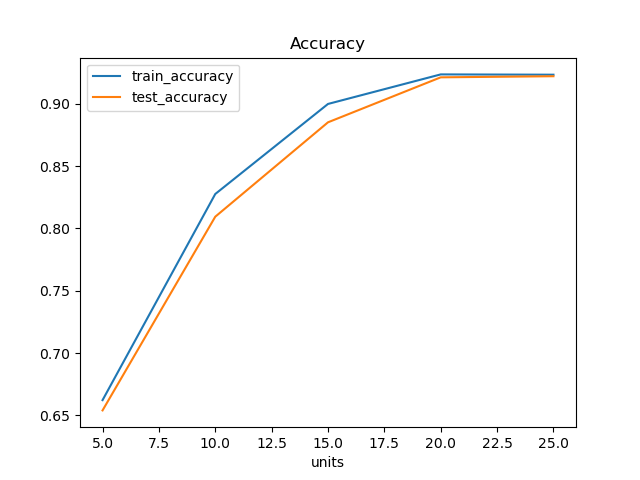
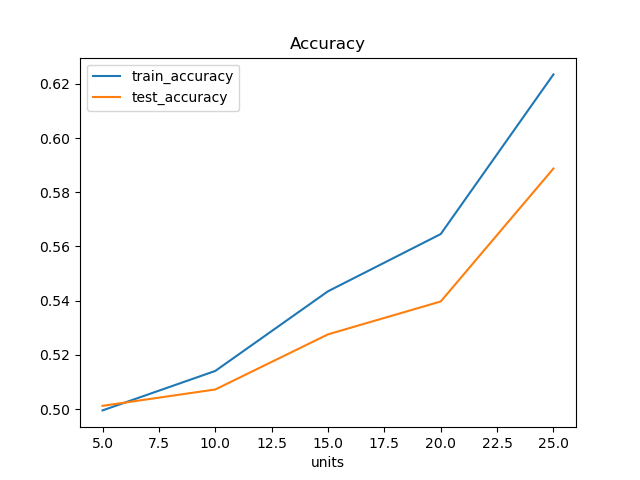
changed converfence and added part f

diff --git a/Assignments/Assignment 3/Q2/Q2.py b/Assignments/Assignment 3/Q2/Q2.py
@@ -3,6 +3,8 @@ from time import time
 import argparse
 import numpy as np
 from sklearn.preprocessing import OneHotEncoder
+from sklearn.neural_network import MLPClassifier
+from sklearn.metrics import confusion_matrix
 import pandas as pd
 from matplotlib import pyplot as plt
 
@@ -54,16 +56,20 @@ def relu_derivative(z):
 
 class NeuralNetwork:
     def __init__(self, X, Y, layers, activation, activation_derivative,
-                 learning_rate=5, epochs=1000, batch_size=100, adaptive=False, verbose=False):
-        self.X = X
-        self.Y = Y
+                 learning_rate=0.1, epsilon=1e-6, batch_size=100, max_epochs=1000, adaptive=False, verbose=False):
+        permutation = np.random.permutation(X.shape[0])
+        self.X = X[permutation]
+        self.Y = Y[permutation]
         self.layers = [X.shape[1]] + layers + [Y.shape[1]]
         self.weights = []
         self.biases = []
         self.activation = activation
         self.activation_derivative = activation_derivative
         self.learning_rate = learning_rate
-        self.epochs = epochs
+        if adaptive:
+            self.learning_rate *= 10
+        self.epsilon = epsilon
+        self.max_epochs = max_epochs
         self.batch_size = batch_size
         self.adaptive = adaptive
         self.verbose = verbose
@@ -79,15 +85,18 @@ class NeuralNetwork:
         self.a = [X]
         for i in range(len(self.layers) - 1):
             z = np.matmul(self.a[i], self.weights[i].T) + self.biases[i].T
-            self.a.append(self.activation(z))
+            if i == len(self.layers) - 2:
+                self.a.append(sigmoid(z))
+            else:
+                self.a.append(self.activation(z))
         return self.a[-1]
 
     def back_propagation(self, Y):
         self.delta = [(Y - self.a[-1]) *
-                      self.activation_derivative(self.a[-1])]
+                      sigmoid_derivative(self.a[-1])]
         for i in range(len(self.layers) - 2, 0, -1):
             self.delta.append(
-                np.dot(self.delta[-1], self.weights[i]) * self.activation_derivative(self.a[i]))
+                np.matmul(self.delta[-1], self.weights[i]) * self.activation_derivative(self.a[i]))
         self.delta.reverse()
 
     def update_weights_biases(self, i):
@@ -96,27 +105,34 @@ class NeuralNetwork:
             rate = self.learning_rate / i ** 0.5
         for i in range(len(self.layers) - 1):
             self.weights[i] += rate * \
-                np.dot(self.delta[i].T, self.a[i]) / self.batch_size
+                np.matmul(self.delta[i].T, self.a[i]) / self.batch_size
             self.biases[i] += rate * \
                 np.sum(self.delta[i], axis=0,
                        keepdims=True).T / self.batch_size
 
     def train(self):
-        for i in range(self.epochs):
+        prev_cost, curr_cost, i = 1e9, 0, 0
+        while abs(curr_cost - prev_cost) > self.epsilon and i < self.max_epochs:
+            prev_cost = curr_cost
             for j in range(0, len(self.X), self.batch_size):
-                self.forward_propagation(self.X[j:j + self.batch_size])
-                self.back_propagation(self.Y[j:j + self.batch_size])
+                X = self.X[j:j + self.batch_size]
+                Y = self.Y[j:j + self.batch_size]
+                self.forward_propagation(X)
+                self.back_propagation(Y)
                 self.update_weights_biases(i + 1)
+                curr_cost += self.cost(X, Y)
+            curr_cost /= len(self.X) / self.batch_size
+            i += 1
             if self.verbose:
-                print(f'Epoch: {i}, Cost: {self.cost()}')
+                print(f'Epoch: {i}, Cost: {curr_cost}')
                 if i % 100 == 0:
                     print(f'Accuracy: {self.accuracy(self.X, self.Y)}')
 
     def predict(self, X):
         return np.argmax(self.forward_propagation(X), axis=1)
 
-    def cost(self):
-        return np.sum(np.square(self.Y - self.forward_propagation(self.X))) / (2 * self.batch_size)
+    def cost(self, X, Y):
+        return np.sum(np.square(Y - self.forward_propagation(X))) / (2 * self.batch_size)
 
     def accuracy(self, X, Y):
         return np.sum(self.predict(X) == np.argmax(Y, axis=1)) / len(Y)
@@ -136,13 +152,12 @@ def util_nn(part: str, params, activation, activation_derivative, adaptive: bool
         f.write('units,train_accuracy,test_accuracy,time\n')
         for num_units in params:
             nn = NeuralNetwork(X_train, Y_train, num_units,
-                               activation, activation_derivative, adaptive=adaptive)
+                               activation, activation_derivative, adaptive=adaptive, verbose=True)
             t = time()
             nn.train()
             t = time() - t
             f.write(
                 f'{num_units[0]},{nn.accuracy(X_train, Y_train)},{nn.accuracy(X_test, Y_test)},{t}\n')
-
             with open(f'{args.output}/{part}_{num_units[0]}_confusion', 'w+') as g:
                 g.write(str(nn.confusion_matrix(X_test, Y_test)))
 
@@ -154,6 +169,34 @@ def util_nn(part: str, params, activation, activation_derivative, adaptive: bool
         plt.clf()
         df.plot(x='units', y='time', title='Time')
         plt.savefig(f'{args.output}/{part}_time.png')
+
+
+def train_MLP(layers, architecture):
+    nn = MLPClassifier(layers, architecture, solver='sgd',
+                       learning_rate_init=0.1, max_iter=1000)
+    nn.fit(X_train, Y_train)
+    return nn
+
+
+def util_MLP():
+    with open(f'{args.output}/MLP', 'w+') as f:
+        f.write('architecture,train_accuracy,test_accuracy,time\n')
+        t = time()
+        nn = train_MLP([100, 100], 'relu')
+        t = time() - t
+        f.write(
+            f'relu,{nn.score(X_train, Y_train)},{nn.score(X_test, Y_test)},{t}\n')
+        f.write(
+            f'{confusion_matrix(np.argmax(Y_test, axis=1), np.argmax(nn.predict(X_test), axis=1))}\n')
+        t = time()
+        nn = train_MLP([100, 100], 'logistic')
+        t = time() - t
+        f.write(
+            f'sigmoid,{nn.score(X_train, Y_train)},{nn.score(X_test, Y_test)},{t}\n')
+        f.write(
+            f'{confusion_matrix(np.argmax(Y_test, axis=1), np.argmax(nn.predict(X_test), axis=1))}\n')
+
+    return None
 
 
 if __name__ == "__main__":
@@ -186,3 +229,6 @@ if __name__ == "__main__":
         util_nn('e_relu', [[100, 100]], relu, relu_derivative, adaptive=True)
         util_nn('e_sigmoid', [[100, 100]], sigmoid,
                 sigmoid_derivative, adaptive=True)
+
+    if args.question.find('f') != -1:
+        util_MLP()
